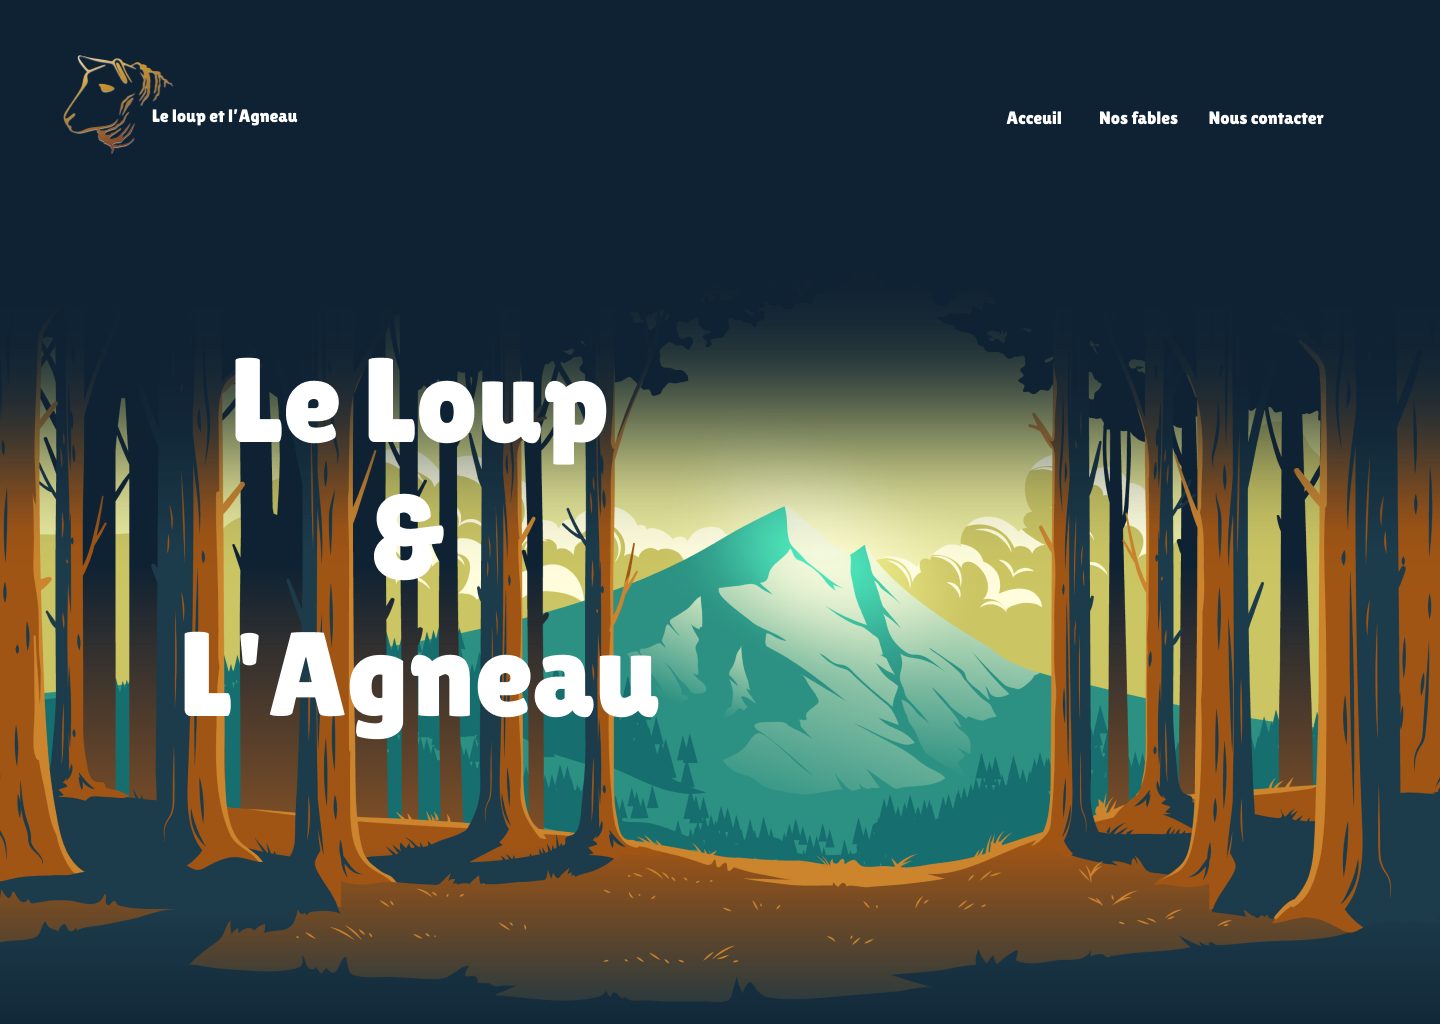
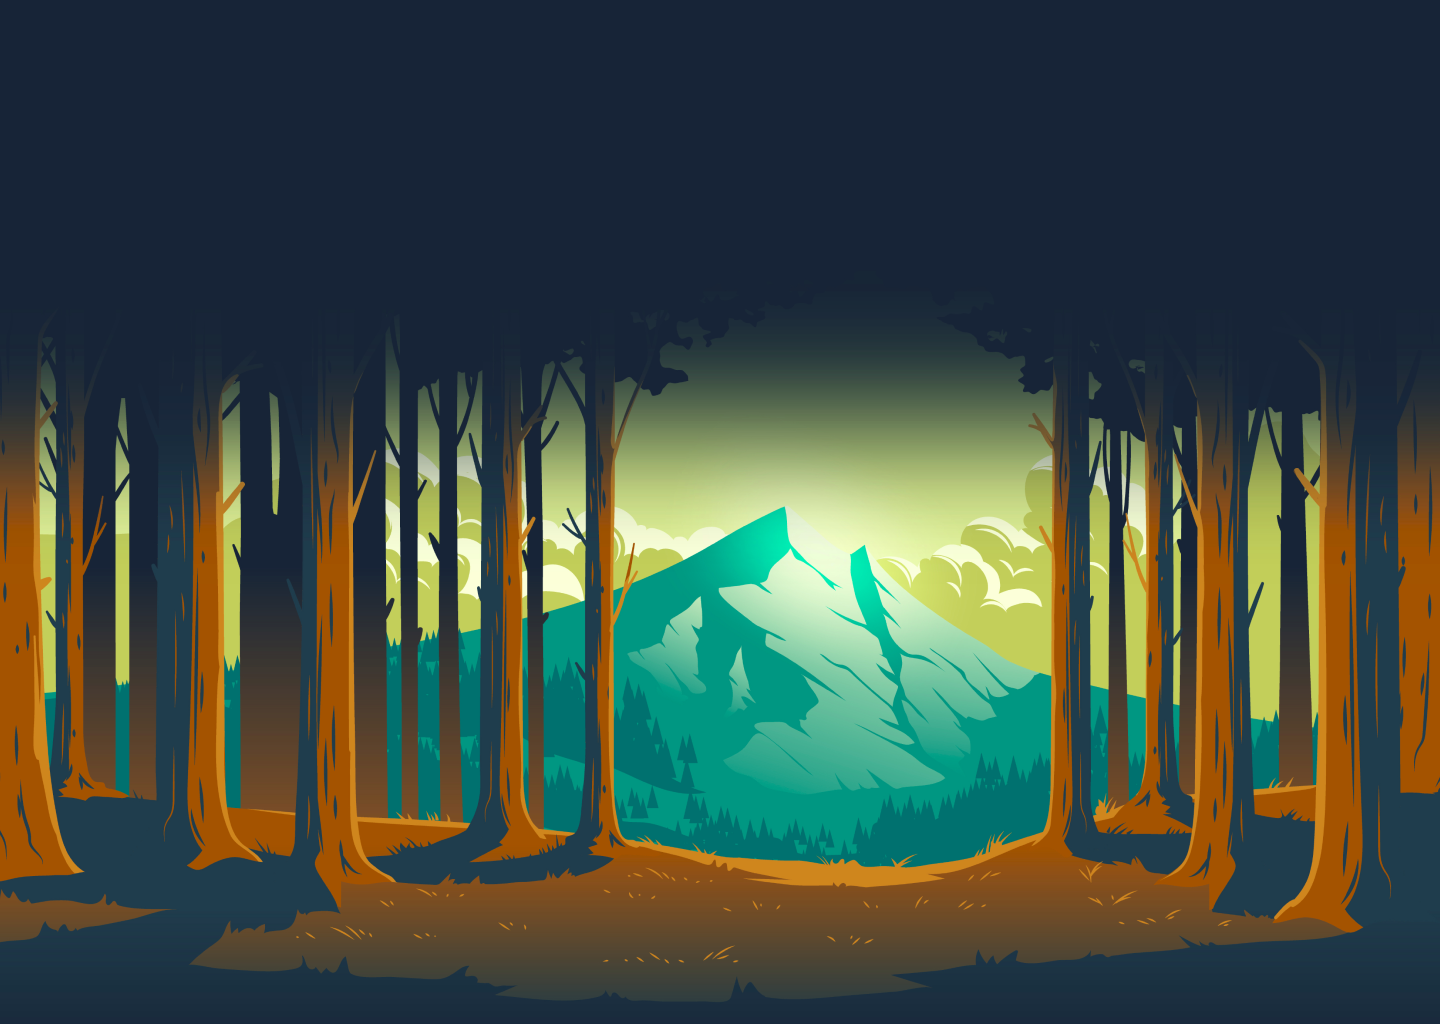
Adding the backgound image and the navbar

diff --git a/src/app/app.module.ts b/src/app/app.module.ts
@@ -1,5 +1,7 @@
 import { NgModule } from '@angular/core';
 import { BrowserModule } from '@angular/platform-browser';
+import {MatToolbarModule} from '@angular/material/toolbar'; 
+import {MatButtonModule} from '@angular/material/button'; 
 
 import { AppComponent } from './app.component';
 import { HeaderComponent } from './components/header/header.component';
@@ -18,7 +20,9 @@ import { ArticleComponent } from './components/article/article.component';
     ArticleComponent
   ],
   imports: [
-    BrowserModule
+    BrowserModule,
+    MatToolbarModule,
+    MatButtonModule
   ],
   providers: [],
   bootstrap: [AppComponent]

diff --git a/src/app/components/header/header.component.css b/src/app/components/header/header.component.css
@@ -1,0 +1,22 @@
+/* img{
+    width: 100%;
+    height: auto;
+}
+ */
+
+
+
+  .bg-img {
+    /* The image used */
+    background-image: url("/assets/img/header.png");
+  
+    min-height: 380px;
+  
+    /* Center and scale the image nicely */
+    background-position: center;
+    background-repeat: no-repeat;
+    background-size: cover;
+  
+    /* Needed to position the navbar */
+    position: relative;
+  }

diff --git a/src/app/components/navbar/navbar.component.html b/src/app/components/navbar/navbar.component.html
@@ -1,1 +1,10 @@
-<p>navbar works!</p>
+<p >
+    <mat-toolbar class="theNav">
+      <span class="spacer"> <img src="assets/img/logo.png" alt="logo image" class="logo-img"> Le loup et l'Agneau</span>
+      <a mat-button>Accueil</a>
+      <a mat-button>Présentaion</a>
+      <a mat-button>Nos fables</a>
+      <a mat-button>Nous contacter</a>
+      <a mat-button>home</a>
+    </mat-toolbar>
+</p>

diff --git a/src/app/components/navbar/navbar.component.ts b/src/app/components/navbar/navbar.component.ts
@@ -3,7 +3,9 @@ import { Component, OnInit } from '@angular/core';
 @Component({
   selector: 'app-navbar',
   templateUrl: './navbar.component.html',
-  styleUrls: ['./navbar.component.css']
+  styleUrls: ['./navbar.component.css'],
+  
+
 })
 export class NavbarComponent implements OnInit {
 

diff --git a/src/app/components/header/header.component.html b/src/app/components/header/header.component.html
@@ -1,1 +1,13 @@
-<p>header works!</p>
+<!-- <div class="header">
+    <div>
+        <img src="assets/img/header.png" alt="this is the header image" >
+    </div>
+</div> -->
+
+<div class="bg-img">
+
+    <div class="container">
+        <app-navbar> </app-navbar>
+    </div>
+
+</div> 

diff --git a/src/app/app.component.html b/src/app/app.component.html
@@ -1,4 +1,4 @@
-<app-header>{{title}}</app-header>
+<app-header></app-header>
 <app-article>{{title}}</app-article>
 <app-form-contact>{{title}}</app-form-contact>
 <app-footer>{{title}}</app-footer>

diff --git a/src/app/components/navbar/navbar.component.css b/src/app/components/navbar/navbar.component.css
@@ -1,0 +1,11 @@
+.spacer {
+    flex: 1 1 auto;
+  }
+
+  .logo-img{
+    width: min(30vw, 80px);
+  }
+
+  .theNav{
+      color: white;
+  }
